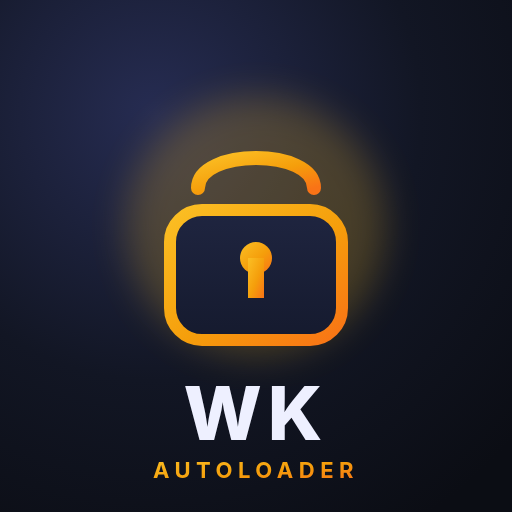
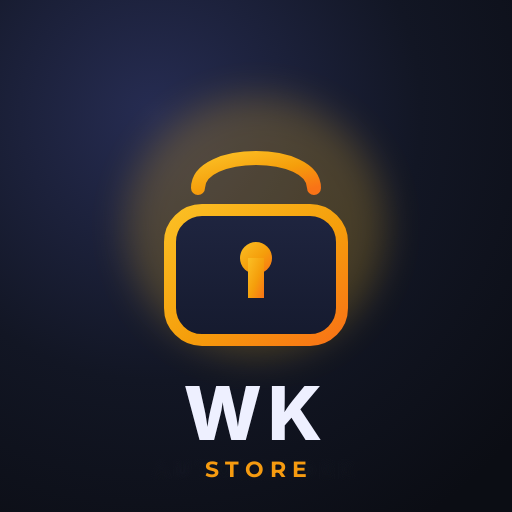
Update branding, tile lock, and home screenshot

Changed region(s): [[0.2812, 0.875, 0.6875, 0.9375]]

diff --git a/README.md b/README.md
@@ -1,4 +1,4 @@
-<img src="docs/img/banner.png" alt="WK Store">
+<img src="docs/img/banner-store.png" alt="WK Store">
 
 Turns the PS5 Store tile into WK Store: open the tile, start the jailbreak, and Elf Launcher opens when it finishes.
 
@@ -18,6 +18,7 @@ Turns the PS5 Store tile into WK Store: open the tile, start the jailbreak, and 
 
 ## Gallery
 
+<p><img src="docs/img/home.png" alt="WK Store home" width="640"></p>
 <p><img src="store/icon0.png" alt="Store tile icon" width="200"> <img src="store/pic0.png" alt="Store tile background" width="480"></p>
 
 ## Requirements
